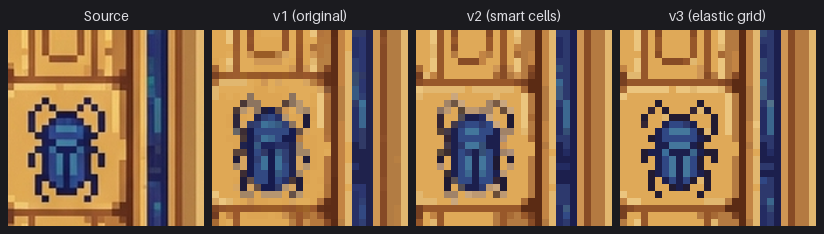
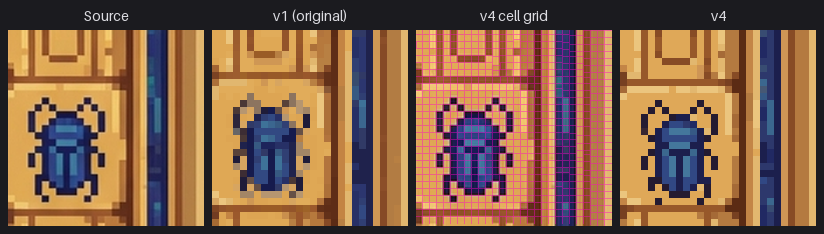
README: scarab closeup shows v1, the v4 cell grid and v4

diff --git a/README.md b/README.md
@@ -32,7 +32,7 @@ so a smaller region reduces processing work; the full file is still decoded on l
 
 ![Pixeline GUI in light mode](screenshots/light_mode.png)
 
-## v1, v2 and v3
+## v1 to v4
 
 Closeups from three test images. Each image was converted whole with the default Auto
 settings, then cropped on whole output pixels and enlarged without smoothing.
@@ -44,10 +44,14 @@ settings, then cropped on whole output pixels and enlarged without smoothing.
   pixel grid, which saves thin outlines, lettering and small ornaments. It also keeps
   small, distinct colors in busy scenes. If an image looks distorted, turn off
   **Elastic grid** in the GUI or pass `--no-elastic`.
+- **v4** lets the elastic grid follow art drawn on its own offset grid. It measures how far
+  the art around each cell sits from the main grid and keeps that offset, even across rows
+  with no edges to follow. On the pumpkin and the lettering below it looks the same as v3.
 
-Thin outlines: the elastic grid keeps the scarab's one-pixel legs and outline.
+Thin outlines: the scarab is drawn 2 px off the frame's grid. The v4 cell grid (pink)
+follows it, so each one-pixel leg lands in a cell of its own.
 
-![Scarab closeup: source, v1, v2, v3](screenshots/compare_scarab.png)
+![Scarab closeup: source, v1, the v4 cell grid over the source, v4](screenshots/compare_scarab.png)
 
 Vines: v1 picks a 5 px grid; v2 and v3 find the real 3.58 px one.
 
